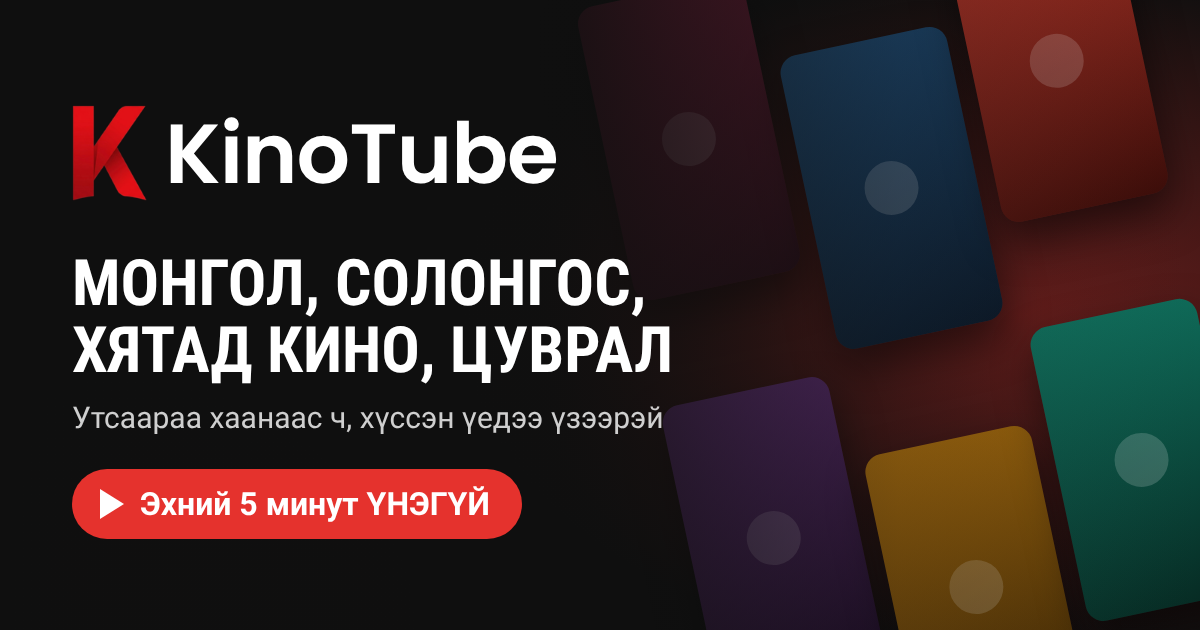
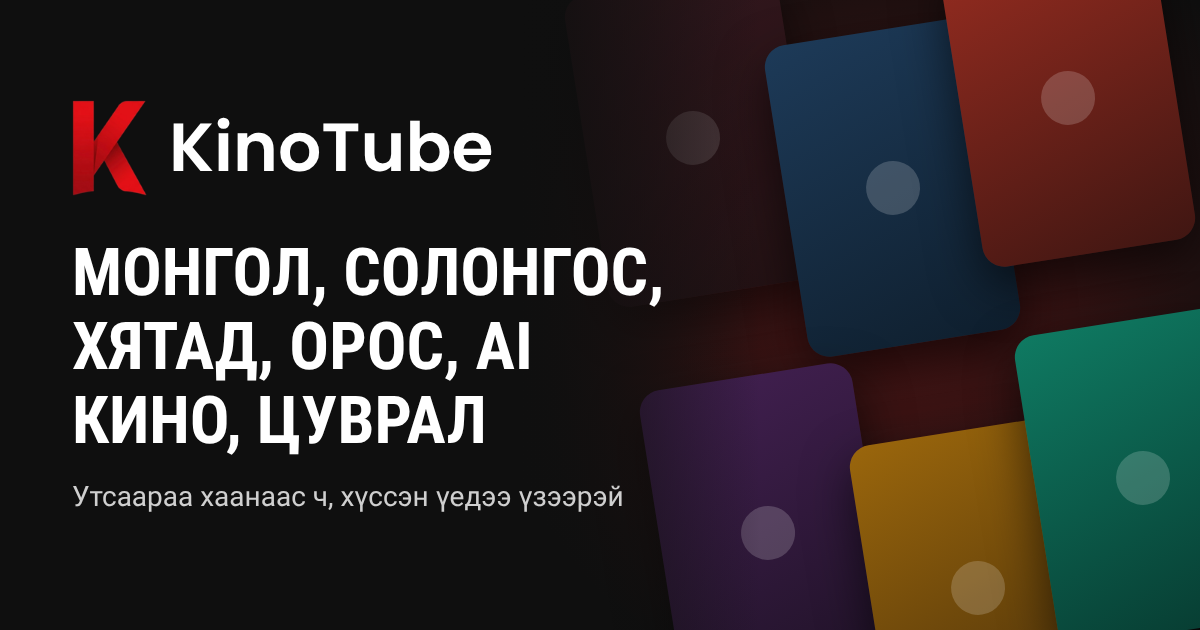
Link preview-оос "Эхний 5 минут ҮНЭГҮЙ" бичгийг бүрмөсөн авлаа (тайлбар, og.png, кино бүрийн карт); Орос, AI кино нэмэв
Claude-Session: https://claude.ai/code/session_01RJZdxnXcgP87tCn76Co3XQ

diff --git a/functions/m/[[path]].js b/functions/m/[[path]].js
@@ -1,12 +1,11 @@
 // GET /m/<id>[/<анги>] — хуваалцах хаяг. Facebook, Messenger, Telegram зэрэг нь hash (#watch-...) уншдаггүй тул
 // кино бүрт тусдаа Open Graph tag-тай жижиг HTML буцааж, хүн бол JS-ээр апп руу (#watch-<id> / #shorts-<id>) шилжүүлнэ.
 import { SLUG_RE, serviceClient } from '../../server/core.js'
-import { freeLabel } from '../../server/free.js'
 import { r2Configured, r2Url } from '../../server/r2.js'
 
 const SITE = 'KinoTube'
 const SITE_TITLE = 'KinoTube — Кино, цуврал онлайн'
-const SITE_DESC = 'Монгол, Солонгос, Хятад кино, цуврал, Shorts. Кино бүрийн эхний 5 минут, цувралын эхний 2 анги, Shorts-ийн эхний 10 минут үнэгүй. Утсаараа хаанаас ч үзээрэй.'
+const SITE_DESC = 'Монгол, Солонгос, Хятад, Орос, AI кино, цуврал, Shorts. Утсаараа хаанаас ч үзээрэй.'
 
 const esc = (s) => String(s ?? '').replace(/&/g, '&amp;').replace(/</g, '&lt;').replace(/>/g, '&gt;').replace(/"/g, '&quot;')
 const cut = (s, n) => (s.length > n ? `${s.slice(0, n - 1).trimEnd()}…` : s)
@@ -29,14 +28,13 @@ async function ogCard(env, id) {
 function describe(m, epCount, ep) {
   // Ганц ангитай цуврал = бүтэн кино.
   const series = m.kind === 'series' && epCount !== 1
-  const free = `🎁 ${freeLabel(m, epCount)} ҮНЭГҮЙ`
   const meta = [
     m.year,
     (m.genres || []).slice(0, 2).join(', '),
     series ? (epCount ? `${epCount} анги` : '') : m.kind === 'series' ? '' : clock(m.duration),
   ].filter(Boolean).join(' · ')
   const about = m.description ? cut(m.description.replace(/\s+/g, ' ').trim(), 160) : ''
-  return [ep ? `${ep}-р анги.` : '', `${free} — одоо үзээрэй ▶`, meta && `${meta}.`, about].filter(Boolean).join(' ')
+  return [ep ? `${ep}-р анги.` : '', meta && `${meta}.`, about].filter(Boolean).join(' ')
 }
 
 function page({ title, desc, image, url, app, type = 'video.movie', large = true }) {
@@ -74,7 +72,7 @@ export async function onRequestGet({ request, env, params }) {
   const [rawId = '', rawEp] = [].concat(params.path ?? [])
   const id = decodeURIComponent(rawId)
   const ep = /^\d{1,3}$/.test(rawEp || '') ? Number(rawEp) : 0
-  const site = page({ title: SITE_TITLE, desc: SITE_DESC, image: `${origin}/og.png`, url: `${origin}/`, app: '/', type: 'website' })
+  const site = page({ title: SITE_TITLE, desc: SITE_DESC, image: `${origin}/og.png?v=2`, url: `${origin}/`, app: '/', type: 'website' })
   const html = (body, maxAge = 600) =>
     new Response(body, { headers: { 'content-type': 'text/html; charset=utf-8', 'cache-control': `public, max-age=${maxAge}` } })
 
@@ -97,7 +95,7 @@ export async function onRequestGet({ request, env, params }) {
   const suffix = ep ? `/${ep}` : ''
   const app = `/#${m.orientation === 'vertical' ? 'shorts' : 'watch'}-${m.id}${suffix}`
   const card = await ogCard(env, m.id)
-  const image = card ? `${origin}${card}` : m.thumbnail ? `${origin}/img/${m.thumbnail}` : `${origin}/og.png`
+  const image = card ? `${origin}${card}` : m.thumbnail ? `${origin}/img/${m.thumbnail}` : `${origin}/og.png?v=2`
   const title = `${m.title}${ep ? ` · ${ep}-р анги` : ''}${m.year ? ` (${m.year})` : ''} | ${SITE}`
   return html(page({
     title,

diff --git a/index.html b/index.html
@@ -7,15 +7,15 @@
     <link rel="apple-touch-icon" href="apple-touch-icon.png" />
     <meta name="theme-color" content="#0f0f0f" />
     <title>KinoTube — Кино, цуврал онлайн</title>
-    <meta name="description" content="Монгол, Солонгос, Хятад кино, цуврал, Shorts. Кино бүрийн эхний 5 минут, цувралын эхний 2 анги үнэгүй. Утсаараа хаанаас ч үзээрэй." />
+    <meta name="description" content="Монгол, Солонгос, Хятад, Орос, AI кино, цуврал, Shorts. Утсаараа хаанаас ч үзээрэй." />
     <!-- Link preview (Facebook, Messenger, Telegram). Кино бүрийнх functions/m/-д. -->
     <meta property="og:site_name" content="KinoTube" />
     <meta property="og:locale" content="mn_MN" />
     <meta property="og:type" content="website" />
     <meta property="og:url" content="https://kinotube.pages.dev/" />
     <meta property="og:title" content="KinoTube — Кино, цуврал онлайн" />
-    <meta property="og:description" content="🎬 Монгол, Солонгос, Хятад кино, цуврал. Эхний 5 минут ҮНЭГҮЙ — одоо үзээрэй ▶" />
-    <meta property="og:image" content="https://kinotube.pages.dev/og.png" />
+    <meta property="og:description" content="🎬 Монгол, Солонгос, Хятад, Орос, AI кино, цуврал. Утсаараа хаанаас ч үзээрэй." />
+    <meta property="og:image" content="https://kinotube.pages.dev/og.png?v=2" />
     <meta property="og:image:width" content="1200" />
     <meta property="og:image:height" content="630" />
     <meta property="og:image:alt" content="KinoTube — кино, цуврал онлайн" />

diff --git a/src/ogcard.js b/src/ogcard.js
@@ -1,7 +1,6 @@
 // Хуваалцах карт (Open Graph, 1200×630): бүдгэрүүлсэн нүүр дэвсгэр, нүүр зураг, том гарчиг, "ҮНЭГҮЙ" тэмдэг.
 // Facebook/Messenger-т линк хуваалцахад харагдана (functions/m). Админ кино хадгалахад хөтөч дээр зурж R2 руу хуулна.
 import logoUrl from './assets/logo-k.png'
-import { freeLabel } from './data.js'
 
 const W = 1200
 const H = 630
@@ -183,24 +182,6 @@ export async function makeOgCard(item, cover) {
     ctx.fillText(meta, left, y)
     y += 46
   }
-
-  // "ҮНЭГҮЙ" тэмдэг
-  y += 18
-  const badge = `${freeLabel(item, item.episodes?.length)} ҮНЭГҮЙ`
-  ctx.font = '700 32px Roboto, sans-serif'
-  const bw = ctx.measureText(badge).width + 96
-  roundRect(ctx, left, y, bw, 64, 32)
-  ctx.fillStyle = accent
-  ctx.fill()
-  ctx.fillStyle = 'white'
-  ctx.beginPath()
-  ctx.moveTo(left + 30, y + 18)
-  ctx.lineTo(left + 54, y + 32)
-  ctx.lineTo(left + 30, y + 46)
-  ctx.closePath()
-  ctx.fill()
-  ctx.textBaseline = 'middle'
-  ctx.fillText(badge, left + 68, y + 33)
 
   return new Promise((resolve, reject) =>
     canvas.toBlob((b) => (b ? resolve(b) : reject(new Error('Карт үүсгэж чадсангүй'))), 'image/jpeg', 0.88))

diff --git a/README.md b/README.md
@@ -123,7 +123,7 @@ npm test               # R2 линкийн гарын үсгийн тест
 ## Хуваалцах (Facebook, Messenger link preview)
 
 - Үзэх хуудас, Shorts дээрх **Хуваалцах** товч `https://kinotube.pages.dev/m/<id>[/<анги>]` линк өгнө (утсанд хуваалцах цонх, компьютерт линк хуулна). Facebook зэрэг нь `#watch-...` hash уншдаггүй тул `functions/m/[[path]].js` кино бүрт Open Graph tag-тай (гарчиг, "Эхний 5 минут / 2 анги ҮНЭГҮЙ" тайлбар, зураг) HTML буцааж, хүнийг апп руу (`#watch-<id>` / `#shorts-<id>`) шилжүүлнэ.
-- Зураг: админ кино хадгалахад хөтөч 1200×630 карт зурж (`src/ogcard.js`: бүдгэрүүлсэн нүүр, том гарчиг, ҮНЭГҮЙ тэмдэг) R2-д `thumbnails/og/<id>.jpg` болгон хуулна. Хуучин кинонд админы кино/цуврал табын **Хуваалцах зураг** товч бүгдэд нь үүсгэнэ. Карт байхгүй бол нүүр зураг, түүнгүй бол сайтын `public/og.png`.
+- Зураг: админ кино хадгалахад хөтөч 1200×630 карт зурж (`src/ogcard.js`: бүдгэрүүлсэн нүүр, том гарчиг; үнэгүй гэсэн бичиггүй) R2-д `thumbnails/og/<id>.jpg` болгон хуулна. Хуучин кинонд админы кино/цуврал табын **Хуваалцах зураг** товч бүгдэд нь үүсгэнэ. Карт байхгүй бол нүүр зураг, түүнгүй бол сайтын `public/og.png`.
 - Нүүр хуудасны ерөнхий preview `index.html`-д (`public/og.png`).
 - Шалгах: https://developers.facebook.com/tools/debug/ дээр линкээ оруулж "Scrape Again" дарна (Facebook preview-г кэшлэдэг тул зураг солисны дараа ч ингэнэ).
 
